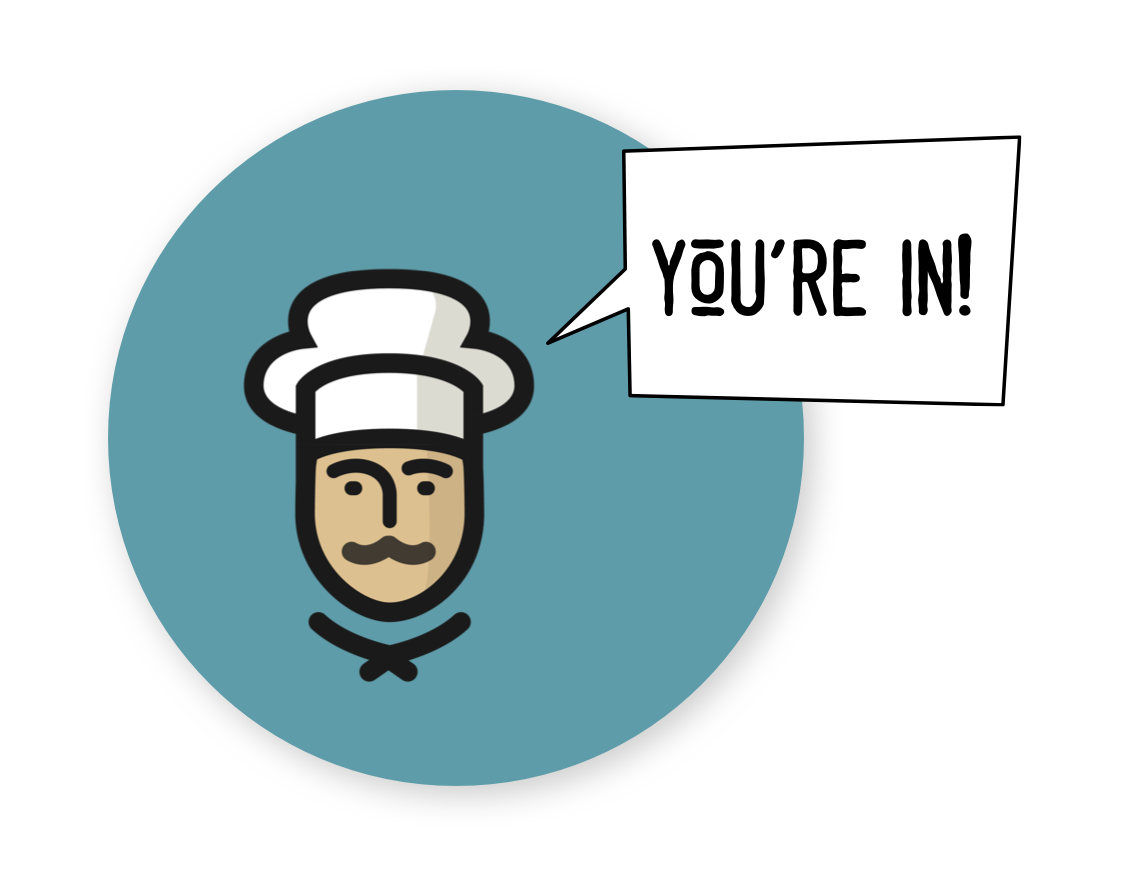
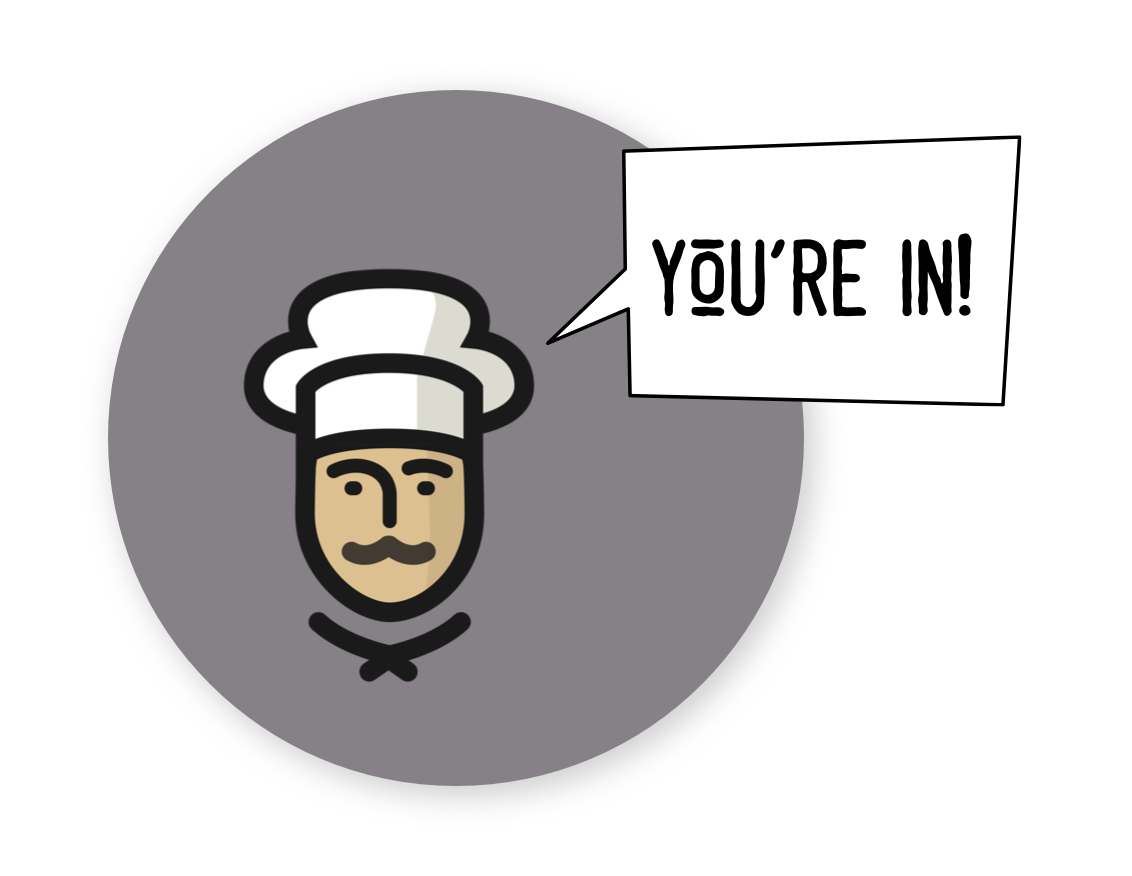
adding screenshots and ignoring backend configs

Changed region(s): [[0.0928, 0.0925, 0.7111, 0.8938]]

diff --git a/src/js/containers/setup.scss b/src/js/containers/setup.scss
@@ -5,25 +5,21 @@
     flex-direction: column;
     flex-wrap: wrap;
     justify-content: flex-start;
+    margin-bottom: 100px;
 
     .group, .spend {
         width: 100%;
     }
 
-    .react-datepicker__input-container {
-        width: 100%;
-        margin-bottom: 50px;
-
-        input {
-            border: 0;
-            font-size: 32px;
-            outline: 0;
-            background: transparent;
-            padding: 8px;
-            @include themify($themes) {
-                border-bottom: 2px solid themed('borderColor');
-            }
+    .title {
+        @include themify($themes) {
+            color: themed('backgroundTextColor');
         }
+        font-size: 24px;
+        line-height: 32px;
+        width: 256px;
+        margin: 10px auto 30px;
+        text-align: center;
     }
 
     .cutoff {
@@ -59,16 +55,19 @@
     justify-content: flex-start;
     text-align: center;
     margin-bottom: 20px;
+    background-repeat: no-repeat;
+    background-size: 100% 100%;
+    @include themify($themes) {
+        background-image:
+            linear-gradient(
+                themed('externalOverlay'), 
+                themed('externalOverlay')
+            ),
+            themed('externalImage');
+    }
 
     @include themify($themes) {
         color: themed('backgroundTextColor');
-    }
-
-    .title {
-        font-size: 24px;
-        line-height: 32px;
-        width: 256px;
-        margin: 0 auto 12px;
     }
     .intro {
         p {
@@ -83,11 +82,6 @@
         display: flex;
         margin: 20px 0;
         height: 180px;
-        background-repeat: no-repeat;
-        background-size: 100% 100%;
-        @include themify($themes) {
-            background-image: themed('externalImage');
-        }
 
         button {
             margin: auto auto;

diff --git a/src/js/containers/Accept.js b/src/js/containers/Accept.js
@@ -4,7 +4,7 @@ import PropTypes from "prop-types";
 import { connect } from 'react-redux';
 import { compose } from 'redux';
 
-import { acceptGroup } from '../helpers/actions';
+import { acceptGroup, fetchGroupIfNeeded } from '../helpers/actions';
 import Status from './Status';
 import Button from '../components/Button';
 
@@ -20,7 +20,8 @@ class Accept extends Component {
     componentDidMount() {
         const { groupId, memberId } = this.props.match.params;
         const { campaign } = this.props;
-        this.props.acceptGroup(campaign.key, groupId, memberId);
+        this.props.fetchGroupIfNeeded(campaign.key, groupId);
+        // this.props.acceptGroup(campaign.key, groupId, memberId);
     }
 
     copyLink(groupId) {
@@ -78,7 +79,8 @@ Accept.propTypes = {
     data: PropTypes.object.isRequired,
     isFetching: PropTypes.bool.isRequired,
     lastUpdated: PropTypes.number,
-    acceptGroup: PropTypes.func.isRequired
+    acceptGroup: PropTypes.func.isRequired,
+    fetchGroupIfNeeded: PropTypes.func.isRequired
 };
 
 const mapStateToProps = state => {
@@ -92,7 +94,8 @@ const mapStateToProps = state => {
 
 const mapDispatchToProps = dispatch => {
     return {
-        acceptGroup: (campaignName, groupId, memberId) => dispatch(acceptGroup(campaignName, groupId, memberId))
+        acceptGroup: (campaignName, groupId, memberId) => dispatch(acceptGroup(campaignName, groupId, memberId)),
+        fetchGroupIfNeeded: (campaignName, groupId) => dispatch(fetchGroupIfNeeded(campaignName, groupId))
     }
 };
 

diff --git a/src/js/skins/buyfresh/colors.scss b/src/js/skins/buyfresh/colors.scss
@@ -1,6 +1,6 @@
 $buyfresh-colors: (
-    bodyBackgroundColor: #3D3530,
-    appBackgroundColor: #3D3530,
+    bodyBackgroundColor: #312B32,
+    appBackgroundColor: #312B32,
     formBackgroundColor: #FFF,
     sudoformBackgroundColor: #EEEEED,
     errorColor: #75302F,
@@ -10,15 +10,15 @@ $buyfresh-colors: (
     textColor: #000,
     titleColor: #5C5C5D,
     labelColor: #000,
-    inputColor: #5F9CA9,
-    buttonUp: #F4A069,
+    inputColor: #312B32,
+    buttonUp: #F76131,
     buttonDown: #434343,
-    buttonGo: #5F9CA9,
+    buttonGo: #E6A332,
     buttonText: #FFF,
     strongColor: #9B9B9B,
     shadowColor: #434343,
-    borderColor: #F4A069,
-    addPeopleBg: #F4A069,
+    borderColor: #F76131,
+    addPeopleBg: #F76131,
     addPeopleText: #FFF,
     removePeopleBg: #D16463,
     removePeopleText: #FFF,
@@ -27,5 +27,6 @@ $buyfresh-colors: (
     crewText: #5F9CA9,
     logo: url(../skins/buyfresh/logo.png),
     externalImage: url(../skins/buyfresh/external.jpg),
+    externalOverlay: rgba(18, 14, 15, 0.6),
     youreinImage: url(../skins/buyfresh/yourein.png)
 );

diff --git a/src/js/containers/Setup.js b/src/js/containers/Setup.js
@@ -128,13 +128,14 @@ class Setup extends Component {
         return (
             <div className="setup-container">
                 <div className="intro-container">
+                    <div className="logo"></div>
                     <span className="title">{title}</span>
                     <span className="intro">{intros}</span>
                     <div className="campaign-link">
                         <Button action={() => window.open(external_link, " _blank")} title="Check it out" />
                     </div>
-                    <div className="title form-title">{setup.form_title}</div>
                 </div>
+                <div className="title form-title">{setup.form_title}</div>
                 <div className="form-container">
                     <Person
                         className="creator"

diff --git a/src/js/helpers/actions.js b/src/js/helpers/actions.js
@@ -1,12 +1,11 @@
 import fetch from 'cross-fetch'
-
+import DEV_URL from '../../../backend';
 import Campaigns from '../skins/campaigns.js';
 
 export const REQUEST_GROUP = 'REQUEST_GROUP';
 export const RECEIVE_GROUP = 'RECEIVE_GROUP';
 export const REQUEST_CAMPAIGN = 'REQUEST_CAMPAIGN';
 export const RECEIVE_CAMPAIGN = 'RECEIVE_CAMPAIGN';
-export const DEV_URL = 'https://c99krn5i75.execute-api.eu-west-1.amazonaws.com/development';
 
 function requestGroup() {
     return {
@@ -120,7 +119,7 @@ function shouldFetchCampaign(state, campaignName) {
     } else if (thisCampaign.isFetching) {
         return false;
     }
-    return false;
+    return true;
 }
 
 export function fetchCampaignIfNeeded(campaignName) {

diff --git a/src/js/containers/app.scss b/src/js/containers/app.scss
@@ -4,13 +4,10 @@ body {
     font-family: 'Trebuchet MS', 'Lucida Sans Unicode', 'Lucida Grande', 'Lucida Sans', Arial, sans-serif;
     margin: 0;
     padding: 0;
-    .theme-buyfresh {
-        background-color: #3D3530;
-    }
 }
 
 .app-container {
-    padding: 40px 0;
+    padding: 0;
 
     .terms {
         margin: 30px auto;
@@ -98,7 +95,7 @@ body {
         height: 24px;
         background-repeat: no-repeat;
         background-size: 100% 100%;
-        margin: 0 auto 30px;
+        margin: 40px auto 30px;
         @include themify($themes) {
             background-image: themed('logo');
         }

diff --git a/src/js/components/input.scss b/src/js/components/input.scss
@@ -10,7 +10,8 @@
 
     .form-label {
         order: 0;
-        font-size: 18px;
+        font-size: 20px;
+        line-height: 24px;
         margin: 30px 0px 0px;
         width: 100%;
         @include themify($themes) {
@@ -20,7 +21,8 @@
     .form-input {
         order: 1;
         border: 0;
-        font-size: 24px;
+        font-size: 18px;
+        line-height: 24px;
         outline: 0;
         background: transparent;
         padding: 8px;

diff --git a/src/js/containers/Campaign.js b/src/js/containers/Campaign.js
@@ -34,7 +34,6 @@ class Campaign extends Component {
 
         return (
             <div className="campaign-container">
-                <div className="logo"></div>
                 <Switch>
                     <Route exact path={`${path}/`}>
                         <Setup campaign={campaign} />

diff --git a/src/js/containers/optin.scss b/src/js/containers/optin.scss
@@ -31,5 +31,12 @@
                 color: themed('textColor');
             }
         }
+        .intro-container {
+            margin-bottom: 0;
+            .title {
+                margin-top: 40px;
+                font-size: 24px;
+            }
+        }
     }
 }

diff --git a/src/js/skins/campaigns.js b/src/js/skins/campaigns.js
@@ -1,7 +1,7 @@
 const campaigns = [
     {
         key: "buyfresh",
-        background_color: "#3D3530",
+        background_color: "#312B32",
         title: "Win with Kin & Buyfresh!",
         cutoff: {
             type: "number_of_people",

diff --git a/README.md b/README.md
@@ -9,3 +9,8 @@ This is the repository for the internal Kin Opt-In tool, previously named 'Secre
 - `npm run build`
 - `npm run start`
 - Browse to 0.0.0.0:8080/{campaign_name}/
+
+
+![Setup Secret Santa](screenshot1.png)
+
+![Crew so far!](screenshot2.png)
